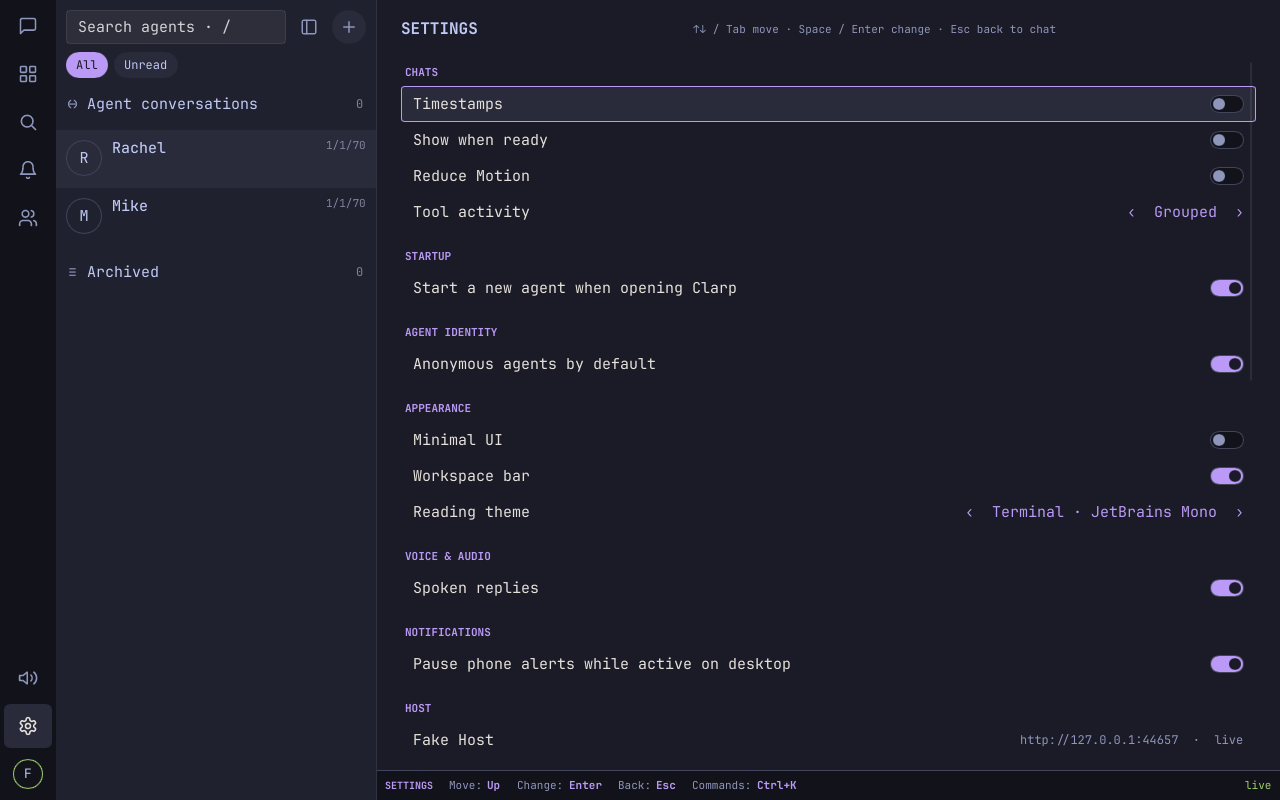
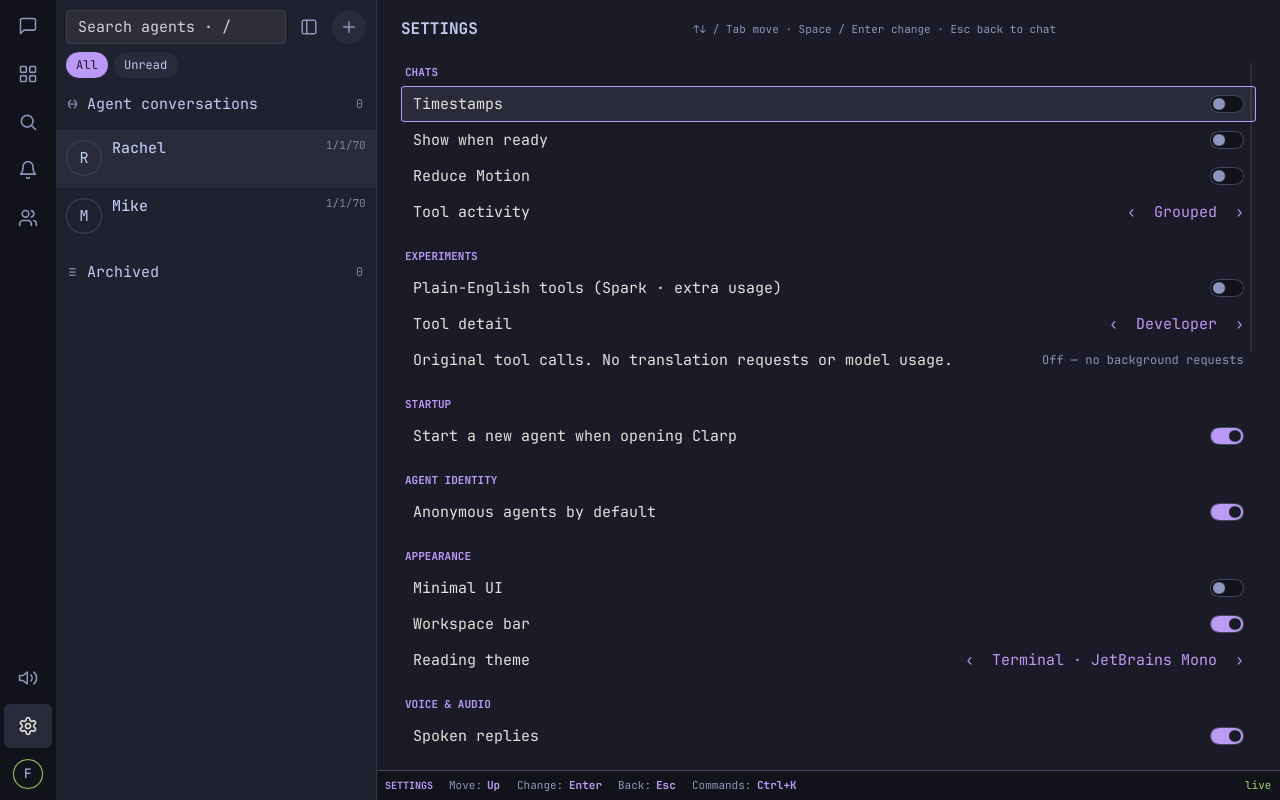
feat(engine): tool narrator (plain-English tools) with settings and switcher controls

diff --git a/desktop-rs/engine/src/narrator.rs b/desktop-rs/engine/src/narrator.rs
@@ -1,0 +1,171 @@
+//! Plain-English tools (the Qt app's `ToolNarrator` over
+//! `clarp_core::narrator::Narrator`): the Host explains tool activity at a
+//! chosen detail level; the transcript reads explanations cache-only while
+//! presenting, and asks for those it shows.
+
+use std::cell::RefCell;
+use std::time::Duration;
+
+use clarp_core::json::Object;
+use clarp_core::narrator::{DEBOUNCE_MS, DETAIL_LEVELS, Effect, Narrator, POLL_MS, TIMEOUT_MS};
+use serde_json::Value;
+
+use crate::{Change, Engine, Message};
+
+/// A narrator timer that came due.
+#[derive(Debug)]
+pub(crate) enum NarratorTimer {
+    Debounce,
+    Poll(String),
+    Timeout(u64),
+}
+
+pub(crate) fn new(settings: &clarp_core::settings::Settings) -> RefCell<Narrator> {
+    let mut narrator = Narrator::new();
+    // Effects need the engine; the level only fixes what later requests ask.
+    let _ = narrator.set_detail_level(settings.integer("experiments/toolDetailLevel", 0) as i32);
+    RefCell::new(narrator)
+}
+
+impl Engine {
+    pub fn narrator_enabled(&self) -> bool {
+        self.narrator.borrow().enabled()
+    }
+    pub fn narrator_unavailable(&self) -> bool {
+        self.narrator.borrow().unavailable()
+    }
+    pub fn narrator_status(&self) -> String {
+        self.narrator.borrow().status()
+    }
+    pub fn narrator_detail_level(&self) -> i32 {
+        self.narrator.borrow().detail_level()
+    }
+    pub fn narrator_detail_levels() -> &'static [&'static str] {
+        &DETAIL_LEVELS
+    }
+    pub fn narrator_level_description(&self) -> &'static str {
+        self.narrator.borrow().level_description()
+    }
+
+    /// The experiment on or off (the switcher's "plain-English tools").
+    pub fn set_narrator_enabled(&mut self, enabled: bool) {
+        let effects = self.narrator.borrow_mut().set_enabled(enabled);
+        self.narrate(effects);
+    }
+
+    /// How plainly tools are explained; kept in settings.
+    pub fn set_narrator_detail_level(&mut self, level: i32) {
+        let effects = self.narrator.borrow_mut().set_detail_level(level);
+        self.narrate(effects);
+    }
+
+    /// The cached explanation of an activity ("" until the Host has one).
+    pub fn explanation_for(&self, session: &str, activity: &Object) -> String {
+        self.narrator.borrow_mut().explanation(&with_session(session, activity))
+    }
+
+    /// The Host could not explain this activity.
+    pub fn explanation_failed(&self, session: &str, activity: &Object) -> bool {
+        self.narrator.borrow_mut().failed(&with_session(session, activity))
+    }
+
+    /// Asks for an activity's explanation (one the reader opened).
+    pub fn request_explanation(&mut self, session: &str, activity: &Object) {
+        let effects = self.narrator.borrow_mut().request(&with_session(session, activity));
+        self.narrate(effects);
+    }
+
+    /// A shown activity keeps its explanation wanted; `owner` names the view.
+    pub fn acquire_explanation_view(&mut self, owner: u64, session: &str, activity: &Object) {
+        let effects = self.narrator.borrow_mut().acquire_view(owner, &with_session(session, activity));
+        self.narrate(effects);
+    }
+
+    pub fn release_explanation_view(&mut self, owner: u64) {
+        let effects = self.narrator.borrow_mut().release_view(owner);
+        self.narrate(effects);
+    }
+
+    /// Presents `session` with the narrator's cached explanations (never
+    /// asking the Host: presenting must not create demand).
+    pub(crate) fn present_with_explanations(&mut self, session: &str) -> Vec<clarp_core::presentation::PresentedRow> {
+        let Some(conversation) = self.conversations.get(session) else { return Vec::new() };
+        let explaining = {
+            let narrator = self.narrator.borrow();
+            narrator.enabled() && !narrator.unavailable()
+        };
+        let narrator = &self.narrator;
+        let lookup = |activity: &Object| -> String { narrator.borrow_mut().explanation(&with_session(session, activity)) };
+        let lookup = explaining.then_some(&lookup as &dyn Fn(&Object) -> String);
+        clarp_core::presentation::present(conversation.rows(), &mut self.presentation, lookup).rows
+    }
+
+    pub(crate) fn narrator_json(&mut self, tag: &str, object: &Object) -> bool {
+        if tag == "explanation-release" {
+            return true;
+        }
+        if !self.narrator.borrow().is_own_tag(tag) {
+            return false;
+        }
+        let effects = self.narrator.borrow_mut().handle_reply(tag, object);
+        self.narrate(effects);
+        true
+    }
+
+    pub(crate) fn narrator_failure(&mut self, tag: &str, status: u16) -> bool {
+        if tag == "explanation-release" {
+            return true;
+        }
+        if !self.narrator.borrow().is_own_tag(tag) {
+            return false;
+        }
+        let effects = self.narrator.borrow_mut().handle_failure(tag, status);
+        self.narrate(effects);
+        true
+    }
+
+    pub(crate) fn narrator_due(&mut self, timer: NarratorTimer) {
+        let effects = {
+            let mut narrator = self.narrator.borrow_mut();
+            match timer {
+                NarratorTimer::Debounce => narrator.start_batch(),
+                NarratorTimer::Poll(tag) => narrator.poll_for(&tag),
+                NarratorTimer::Timeout(generation) => narrator.timed_out(generation),
+            }
+        };
+        self.narrate(effects);
+    }
+
+    pub(crate) fn reset_narrator(&mut self) {
+        let effects = self.narrator.borrow_mut().reset();
+        self.narrate(effects);
+    }
+
+    fn narrate(&mut self, effects: Vec<Effect>) {
+        for effect in effects {
+            match effect {
+                Effect::HostRequest { tag, body } => self.api.post_json(&tag, "/tool-explanations", body, None),
+                Effect::Debounce => self.after(Duration::from_millis(DEBOUNCE_MS), Message::Narrator(NarratorTimer::Debounce)),
+                Effect::Poll { tag } => self.after(Duration::from_millis(POLL_MS), Message::Narrator(NarratorTimer::Poll(tag))),
+                Effect::Timeout { generation } => {
+                    self.after(Duration::from_millis(TIMEOUT_MS), Message::Narrator(NarratorTimer::Timeout(generation)))
+                }
+                Effect::Changed | Effect::EnabledChanged => self.changes.push(Change::Narrator),
+                Effect::DetailLevelChanged => {
+                    let level = self.narrator.borrow().detail_level();
+                    self.settings.set("experiments/toolDetailLevel", i64::from(level));
+                    if level > 0 {
+                        self.settings.set("experiments/toolLastTranslationLevel", i64::from(level));
+                    }
+                    self.changes.push(Change::Narrator);
+                }
+            }
+        }
+    }
+}
+
+fn with_session(session: &str, activity: &Object) -> Object {
+    let mut activity = activity.clone();
+    activity.insert("_session".into(), Value::from(session));
+    activity
+}

diff --git a/desktop-rs/engine/src/lib.rs b/desktop-rs/engine/src/lib.rs
@@ -12,6 +12,7 @@ pub mod blocks;
 mod composer;
 mod connection;
 mod voice;
+mod narrator;
 mod host_status;
 pub mod lifecycle;
 mod queue;
@@ -59,6 +60,9 @@ pub enum Change {
     Preferences,
     /// The pane layout, the active pane or the save warning changed.
     Panes,
+    /// Tool explanations, the narrator's status, level or switch changed:
+    /// transcripts present again.
+    Narrator,
     /// Voice clips to play (announced, or recovered for the open chat).
     Clips(Vec<Object>),
     /// Speech should stop (a message was sent).
@@ -110,6 +114,7 @@ enum Message {
     DeliveryDue { client_id: String, token: u64 },
     DraftsDue(u64),
     PanesWritten(clarp_core::panes::WriteResult),
+    Narrator(narrator::NarratorTimer),
     CredentialStored { base: String, result: Result<(), String> },
     CredentialRemoved { base: String, result: Result<(), String> },
     /// Look again for a created session the roster did not show yet.
@@ -198,6 +203,7 @@ pub struct Engine {
     has_stored_credential: bool,
     /// Optional requests whose failure was already logged once.
     quiet_failures: HashSet<String>,
+    narrator: std::cell::RefCell<clarp_core::narrator::Narrator>,
 
     // lifecycle
     launch: lifecycle::Launch,
@@ -238,6 +244,7 @@ impl Engine {
         let muted = config.settings.boolean("audio/muted", false);
         let workspace_store = config.workspace_store.clone();
         let keyring = config.keyring;
+        let narrator = narrator::new(&config.settings);
         let tools_visible = config.settings.boolean("conversation/toolsVisible", false);
         let presentation = clarp_core::presentation::Settings {
             show_when_ready: config.settings.boolean("conversation/showWhenReady", false),
@@ -291,6 +298,7 @@ impl Engine {
             keyring,
             has_stored_credential: false,
             quiet_failures: HashSet::new(),
+            narrator,
             panes: workspace::Panes::new(workspace_store),
             deliveries: HashMap::new(),
             delivery_counter: 0,
@@ -335,6 +343,7 @@ impl Engine {
                 Message::DeliveryDue { client_id, token } => self.delivery_timed_out(&client_id, token),
                 Message::DraftsDue(token) => self.drafts_due(token),
                 Message::PanesWritten(result) => self.panes_written(result),
+                Message::Narrator(timer) => self.narrator_due(timer),
                 Message::CredentialStored { base, result } => self.credential_stored(&base, result),
                 Message::CredentialRemoved { base, result } => self.credential_removed(&base, result),
                 Message::CreatedAgentDue(session) => self.created_agent_due(&session),
@@ -415,8 +424,7 @@ impl Engine {
     /// A conversation as the transcript shows it: tool activity grouped
     /// and collapsed per the activity mode (`clarp_core::presentation`).
     pub fn presented(&mut self, session: &str) -> Vec<clarp_core::presentation::PresentedRow> {
-        let Some(conversation) = self.conversations.get(session) else { return Vec::new() };
-        clarp_core::presentation::present(conversation.rows(), &mut self.presentation, None).rows
+        self.present_with_explanations(session)
     }
     /// Fetches the tool calls of a message the Host sent without them
     /// (`tool_details_available`), once per message at a time.
@@ -1012,7 +1020,7 @@ impl Engine {
             self.finish_upload(tag, Some(object));
             return;
         }
-        if self.voice_json(tag, object) {
+        if self.voice_json(tag, object) || self.narrator_json(tag, object) {
             return;
         }
         if self.host_status_json(tag, object) {
@@ -1060,7 +1068,7 @@ impl Engine {
 
     fn handle_failure(&mut self, tag: &str, message: &str, status: u16) {
         let detail = if status > 0 { format!("{message} (HTTP {status})") } else { message.to_owned() };
-        if self.host_status_failed(tag, &detail) {
+        if self.host_status_failed(tag, &detail) || self.narrator_failure(tag, status) {
             return;
         }
         if tag == "desktop-presence" || tag == "application-activity" {

diff --git a/desktop-rs/slint-app/src/switcher.rs b/desktop-rs/slint-app/src/switcher.rs
@@ -44,6 +44,8 @@ pub struct Toggles {
     pub workspace_bar: bool,
     pub shared_filesystem: bool,
     pub activity_mode: i32,
+    pub narration: bool,
+    pub detail_level: i32,
 }
 
 fn toggle(on: bool, label: &str, action: &str, key: &str, keywords: &'static str) -> Item {
@@ -58,6 +60,13 @@ pub fn commands(toggles: Toggles, reading_theme: &str) -> Vec<Item> {
         command("Rename contact", "rename-agent", "F2", "agent", "rename name title relabel persona"),
         command("New session", "new", "Ctrl+N", "agent", "new agent start chat provider contact hub"),
         command("Open agent in terminal", "agent-terminal", "Ctrl+Alt+T", "agent", ""),
+        command(
+            if toggles.narration { "Disable plain-English tools" } else { "Enable plain-English tools (Spark · extra usage)" },
+            "tool-narration",
+            "",
+            "experiment",
+            "",
+        ),
         command("Split right", "split-right", "Ctrl+Alt+V", "layout", ""),
         command("Split down", "split-down", "Ctrl+Alt+S", "layout", ""),
         command("Close pane", "close-pane", "Ctrl+Alt+X", "layout", ""),
@@ -93,6 +102,11 @@ pub fn commands(toggles: Toggles, reading_theme: &str) -> Vec<Item> {
     for (mode, label) in ["Grouped", "Always visible", "Group old"].iter().enumerate() {
         let current = if toggles.activity_mode == mode as i32 { " (current)" } else { "" };
         rows.push(command(&format!("Tool activity: {label}{current}"), &format!("setting:activity:{mode}"), if mode == 1 { "Ctrl+Shift+T" } else { "" }, "settings", "tool calls collapse expand grouping"));
+    }
+    for (level, name) in clarp_engine::Engine::narrator_detail_levels().iter().enumerate() {
+        let level = level as i32;
+        let note = if toggles.detail_level == level { " (current)" } else if level > 0 { " (uses AI)" } else { " (no AI)" };
+        rows.push(command(&format!("Tool detail: {name}{note}"), &format!("setting:detail:{level}"), "", "settings", "explanation explanations narration audience"));
     }
     for theme in clarp_core::reading_theme::themes() {
         let text = |key: &str| theme.get(key).and_then(|v| v.as_str()).unwrap_or_default().to_owned();

diff --git a/desktop-rs/slint-app/src/settings_view.rs b/desktop-rs/slint-app/src/settings_view.rs
@@ -68,6 +68,10 @@ pub fn rows(app: &App) -> Vec<SettingRow> {
         toggle("show-when-ready", "Show when ready", engine.show_when_ready()),
         toggle("reduced-motion", "Reduce Motion", settings.boolean("appearance/reducedMotion", false)),
         choice("activity", "Tool activity", ACTIVITY[engine.activity_mode().clamp(0, 2) as usize]),
+        section("EXPERIMENTS"),
+        toggle("narration", "Plain-English tools (Spark · extra usage)", engine.narrator_enabled()),
+        choice("tool-detail", "Tool detail", clarp_engine::Engine::narrator_detail_levels()[engine.narrator_detail_level().clamp(0, 4) as usize]),
+        info(engine.narrator_level_description(), &engine.narrator_status()),
         section("STARTUP"),
         toggle("new-agent-on-startup", "Start a new agent when opening Clarp", settings.boolean("launch/newAgentOnStartup", true)),
         section("AGENT IDENTITY"),
@@ -170,6 +174,14 @@ pub fn change(app: &Rc<App>, window: &AppWindow, id: &str, delta: i32) {
         "activity" => {
             let mode = app.engine.borrow().activity_mode();
             app.engine.borrow_mut().set_activity_mode((mode + delta).rem_euclid(3));
+        }
+        "narration" => {
+            let enabled = app.engine.borrow().narrator_enabled();
+            app.engine.borrow_mut().set_narrator_enabled(!enabled);
+        }
+        "tool-detail" => {
+            let level = app.engine.borrow().narrator_detail_level();
+            app.engine.borrow_mut().set_narrator_detail_level((level + delta).rem_euclid(5));
         }
         "new-agent-on-startup" => flip(app, "launch/newAgentOnStartup", true),
         "anonymous-agents" => flip(app, "launch/anonymousAgents", true),

diff --git a/desktop-rs/slint-app/src/commands.rs b/desktop-rs/slint-app/src/commands.rs
@@ -195,6 +195,10 @@ pub fn run(app: &Rc<App>, window: &AppWindow, action: &str) -> bool {
         }
         "jump-latest" => app.to_latest(),
         "stop-agent" => app.engine.borrow_mut().stop(),
+        "tool-narration" => {
+            let enabled = app.engine.borrow().narrator_enabled();
+            app.engine.borrow_mut().set_narrator_enabled(!enabled);
+        }
         "talk" => {
             let agent = !selected.is_empty() && !selected.starts_with("pair:");
             let recording = crate::platform::audio::with(|audio| audio.recording()).unwrap_or(false);
@@ -216,6 +220,11 @@ pub fn run(app: &Rc<App>, window: &AppWindow, action: &str) -> bool {
             let mode = app.engine.borrow().activity_mode();
             let always = clarp_core::presentation::ALWAYS_VISIBLE;
             app.engine.borrow_mut().set_activity_mode(if mode == always { 0 } else { always });
+        }
+        _ if action.starts_with("setting:detail:") => {
+            if let Ok(level) = action.trim_start_matches("setting:detail:").parse::<i32>() {
+                app.engine.borrow_mut().set_narrator_detail_level(level);
+            }
         }
         _ if action.starts_with("setting:") => apply_setting(app, window, action),
         "settings" => crate::settings_view::open(app, window),
@@ -253,6 +262,8 @@ fn toggles(app: &App, window: &AppWindow) -> switcher::Toggles {
         workspace_bar: prefs.workspace_bar,
         shared_filesystem: engine.shared_filesystem(),
         activity_mode: engine.activity_mode(),
+        narration: engine.narrator_enabled(),
+        detail_level: engine.narrator_detail_level(),
     }
 }
 

diff --git a/desktop-rs/engine/tests/host_flow.rs b/desktop-rs/engine/tests/host_flow.rs
@@ -286,3 +286,21 @@ fn connecting_pairing_and_forgetting_a_host() {
     d.changes.extend(d.engine.pump());
     assert_eq!(d.engine.connection_state(), "offline");
 }
+
+#[test]
+fn tool_activity_is_explained_in_plain_english_once_asked() {
+    let host = Host::start("narrator");
+    let mut d = Driver::new(&host.base);
+    d.engine.start();
+    d.until("live", |e| e.connection_state() == "live");
+    let activity = serde_json::json!({"id": "act-1", "name": "Bash", "summary": "list the files"}).as_object().cloned().unwrap();
+    assert!(d.engine.explanation_for("rachel", &activity).is_empty(), "nothing is asked while the experiment is off");
+    d.engine.set_narrator_enabled(true);
+    d.engine.set_narrator_detail_level(3);
+    assert_eq!(d.engine.settings().integer("experiments/toolDetailLevel", 0), 3, "the level is kept");
+    d.engine.request_explanation("rachel", &activity);
+    d.until("explained", |e| e.explanation_for("rachel", &activity) == "Explained: list the files");
+    let asked = host.requests("POST", "/tool-explanations");
+    assert!(asked.len() >= 2, "a pending answer is polled: {asked:?}");
+    assert!(d.changes.contains(&Change::Narrator));
+}

diff --git a/desktop-rs/slint-app/src/panes.rs b/desktop-rs/slint-app/src/panes.rs
@@ -340,7 +340,7 @@ impl App {
             let session = pane.session.clone();
             let fresh = rebound.contains(&pane.id);
             let conversation = fresh
-                || changes.iter().any(|c| matches!(c, Change::Preferences) || matches!(c, Change::Conversation(s) if *s == session));
+                || changes.iter().any(|c| matches!(c, Change::Preferences | Change::Narrator) || matches!(c, Change::Conversation(s) if *s == session));
             if conversation {
                 self.messages(pane);
             }

diff --git a/desktop-rs/engine/src/connection.rs b/desktop-rs/engine/src/connection.rs
@@ -21,6 +21,7 @@ impl Engine {
             return;
         }
         self.reset_transient_state();
+        self.reset_narrator();
         self.sse.stop();
         self.base_url = normalized.clone();
         self.server_name.clear();
